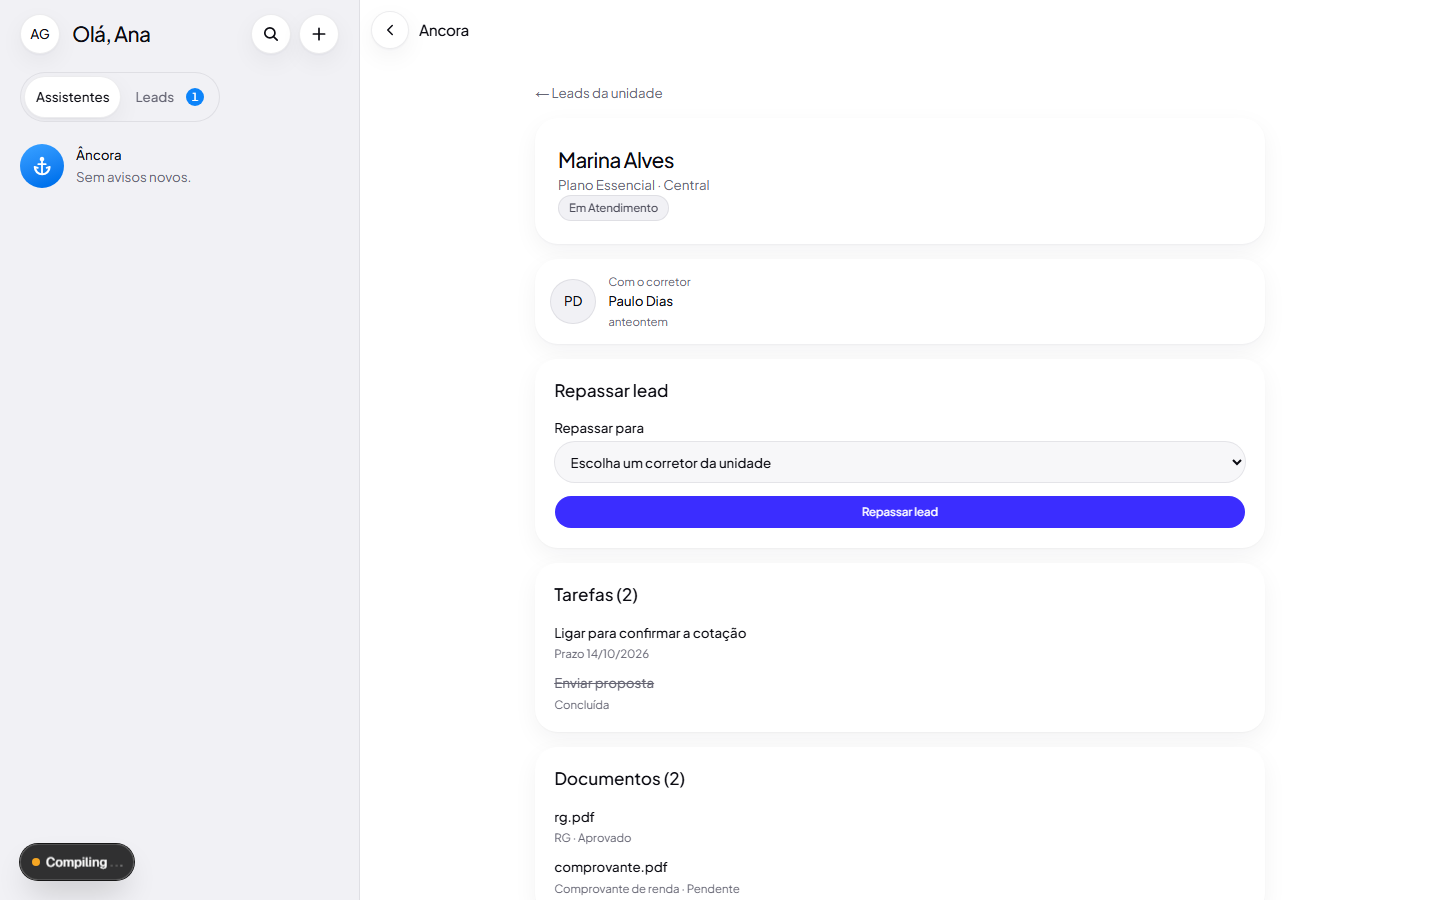
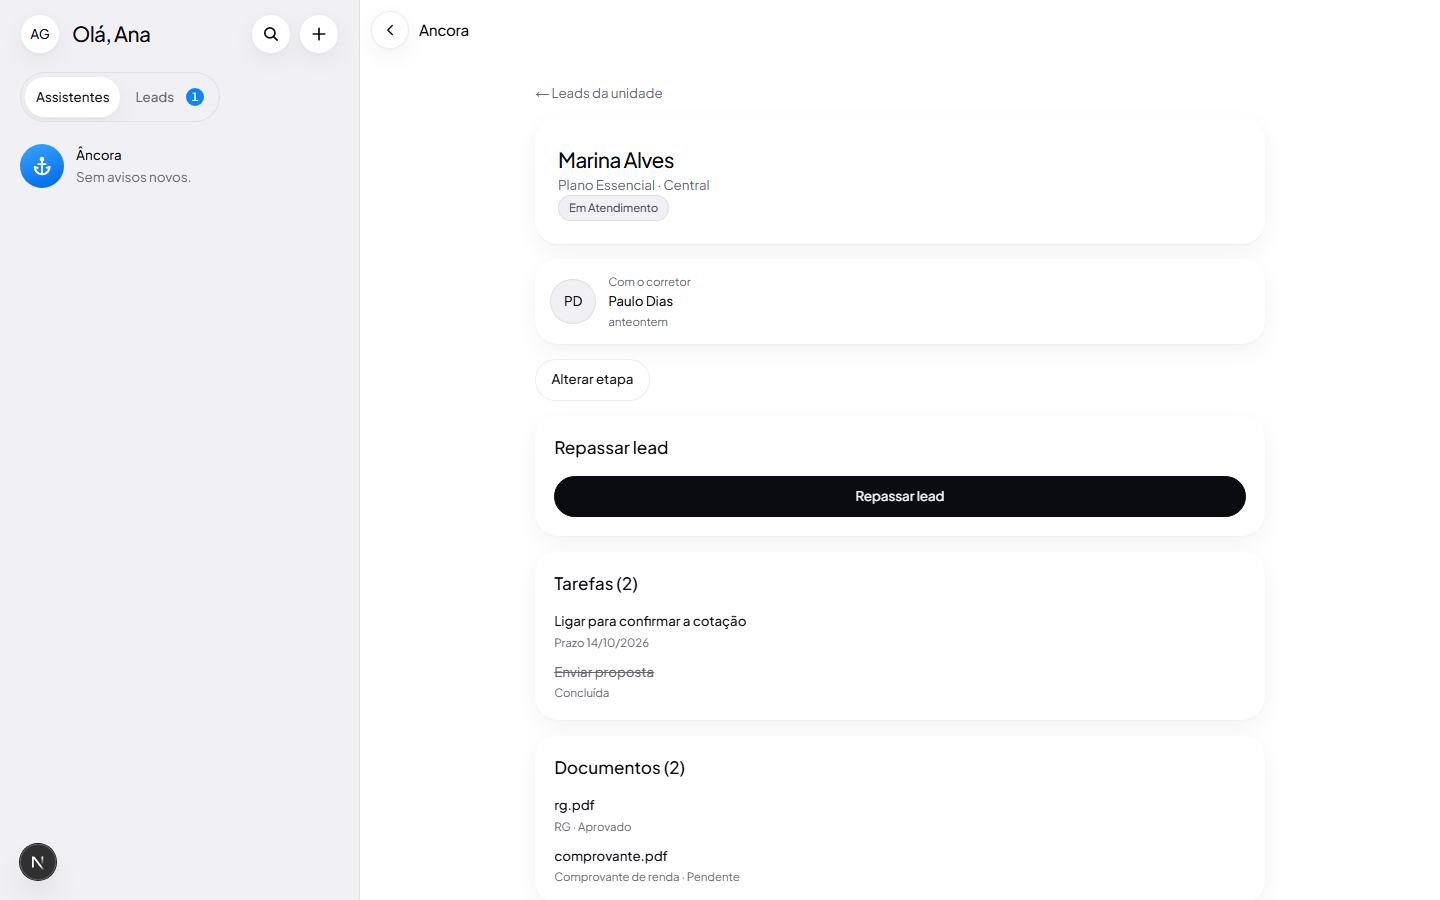
fix(manager-lite): sheets de repasse e etapa dentro do escopo arc-venancor; prints E1 (claro) (E1)

diff --git a/src/app/dev/e1-preview/page.tsx b/src/app/dev/e1-preview/page.tsx
@@ -4,6 +4,14 @@ import { notFound } from "next/navigation";
 
 import { LightChrome } from "@/components/light/light-chrome";
 import { SupervisorLeadDetail } from "@/features/supervisor-workspace/supervisor-lead-detail";
+import { LightCompaniesList } from "@/features/broker-workspace/components/light-companies-list";
+
+/** Sample PJ portfolio for the companies screen. */
+const companies = [
+  { id: "c1", name: "Padaria Central Ltda", cnpj: "12345678000190", employeeCount: 12, branchName: "Central", leadCount: 3 },
+  { id: "c2", name: "Oficina do Norte", cnpj: null, employeeCount: null, branchName: "Central", leadCount: 1 },
+  { id: "c3", name: "Clínica Vida Plena", cnpj: "98765432000155", employeeCount: 40, branchName: "Central", leadCount: 5 },
+];
 import { RouteAs } from "./route-as";
 
 /** Dev-only print of the E1 gestor lead detail in the Lite shell, with sample data. /dev/e1-preview */
@@ -19,9 +27,18 @@ const rail = {
   leadsBadgeCount: 1,
 };
 
-export default async function E1PreviewPage() {
+export default async function E1PreviewPage({ searchParams }: { searchParams: Promise<{ view?: string }> }) {
   if (process.env.NODE_ENV !== "development") notFound();
+  const { view } = await searchParams;
   const now = "2026-10-14T15:00:00.000Z";
+  if (view === "empresas") {
+    return (
+      <LightChrome audience="manager" initialChatRail={rail}>
+        <RouteAs path="/empresas" />
+        <LightCompaniesList companies={companies} />
+      </LightChrome>
+    );
+  }
   return (
     <LightChrome audience="manager" initialChatRail={rail}>
       <RouteAs path="/leads/lead-1" />
@@ -29,7 +46,7 @@ export default async function E1PreviewPage() {
         lead={{ id: "lead-1", name: "Marina Alves", status: "in_contact", ownerId: "b1", ownerName: "Paulo Dias", ownerImage: null, productName: "Plano Essencial", assignedAt: new Date("2026-10-12T12:00:00Z"), branchName: "Central" }}
         timeline={[{ id: "t1", tipo: "status_change", conteudo: "Lead atribuído ao corretor", userName: "Sistema", createdAt: "2026-10-12T12:00:00Z" }]}
         now={now}
-        managerBrokers={[{ id: "b2", name: "Ana Souza" }]}
+        managerBrokers={[{ id: "b2", name: "Ana Souza", image: null, availability: "available" }, { id: "b3", name: "Carla Mendes", image: null, availability: "paused" }]}
         tasks={[
           { id: "k1", title: "Ligar para confirmar a cotação", dueAt: new Date("2026-10-14T18:00:00Z"), completedAt: null, priority: "normal" },
           { id: "k2", title: "Enviar proposta", dueAt: null, completedAt: new Date("2026-10-13T12:00:00Z"), priority: "normal" },

diff --git a/src/features/manager-workspace/manager-lead-transfer-form.tsx b/src/features/manager-workspace/manager-lead-transfer-form.tsx
@@ -35,7 +35,7 @@ export function ManagerLeadTransferForm({ leadId, leadName, brokers }: { leadId:
   return <>
     <Button variant="primary" className="w-full" disabled={brokers.length === 0} onClick={() => setOpen(true)}>Repassar lead</Button>
     {!brokers.length ? <p className="text-sm text-(--text-secondary)">Não há corretores ativos nesta unidade.</p> : null}
-    <BottomSheet title={`Repassar ${leadName}`} description="Escolha o corretor da unidade que vai atender este lead." open={open} onOpenChange={setOpen} closeLabel="Fechar" detents={[0.72]}>
+    <BottomSheet className="arc-venancor" title={`Repassar ${leadName}`} description="Escolha o corretor da unidade que vai atender este lead." open={open} onOpenChange={setOpen} closeLabel="Fechar" detents={[0.72]}>
       <form action={action} aria-label={`Repassar ${leadName}`} className="grid gap-4 px-5 pb-6">
         <input type="hidden" name="leadId" value={leadId} />
         <input type="hidden" name="brokerId" value={brokerId ?? ""} />

diff --git a/src/features/manager-workspace/manager-lead-status-sheet.tsx b/src/features/manager-workspace/manager-lead-status-sheet.tsx
@@ -20,7 +20,7 @@ export function ManagerLeadStatusSheet({ leadId, leadName, currentStatus }: { le
 
   return <>
     <Button variant="secondary" onClick={() => setOpen(true)}>Alterar etapa</Button>
-    <BottomSheet title="Alterar etapa" description={`${leadName} · etapa atual: ${LEAD_STATUS_LABELS[currentStatus] ?? currentStatus}`} open={open} onOpenChange={setOpen} closeLabel="Fechar" detents={[0.72]}>
+    <BottomSheet className="arc-venancor" title="Alterar etapa" description={`${leadName} · etapa atual: ${LEAD_STATUS_LABELS[currentStatus] ?? currentStatus}`} open={open} onOpenChange={setOpen} closeLabel="Fechar" detents={[0.72]}>
       {state.success ? (
         <div className="grid gap-3 px-5 pb-6" aria-live="polite">
           <p className="text-base font-semibold text-(--foreground)">Etapa alterada para {LEAD_STATUS_LABELS[state.newStatus ?? ""] ?? state.newStatus}.</p>
